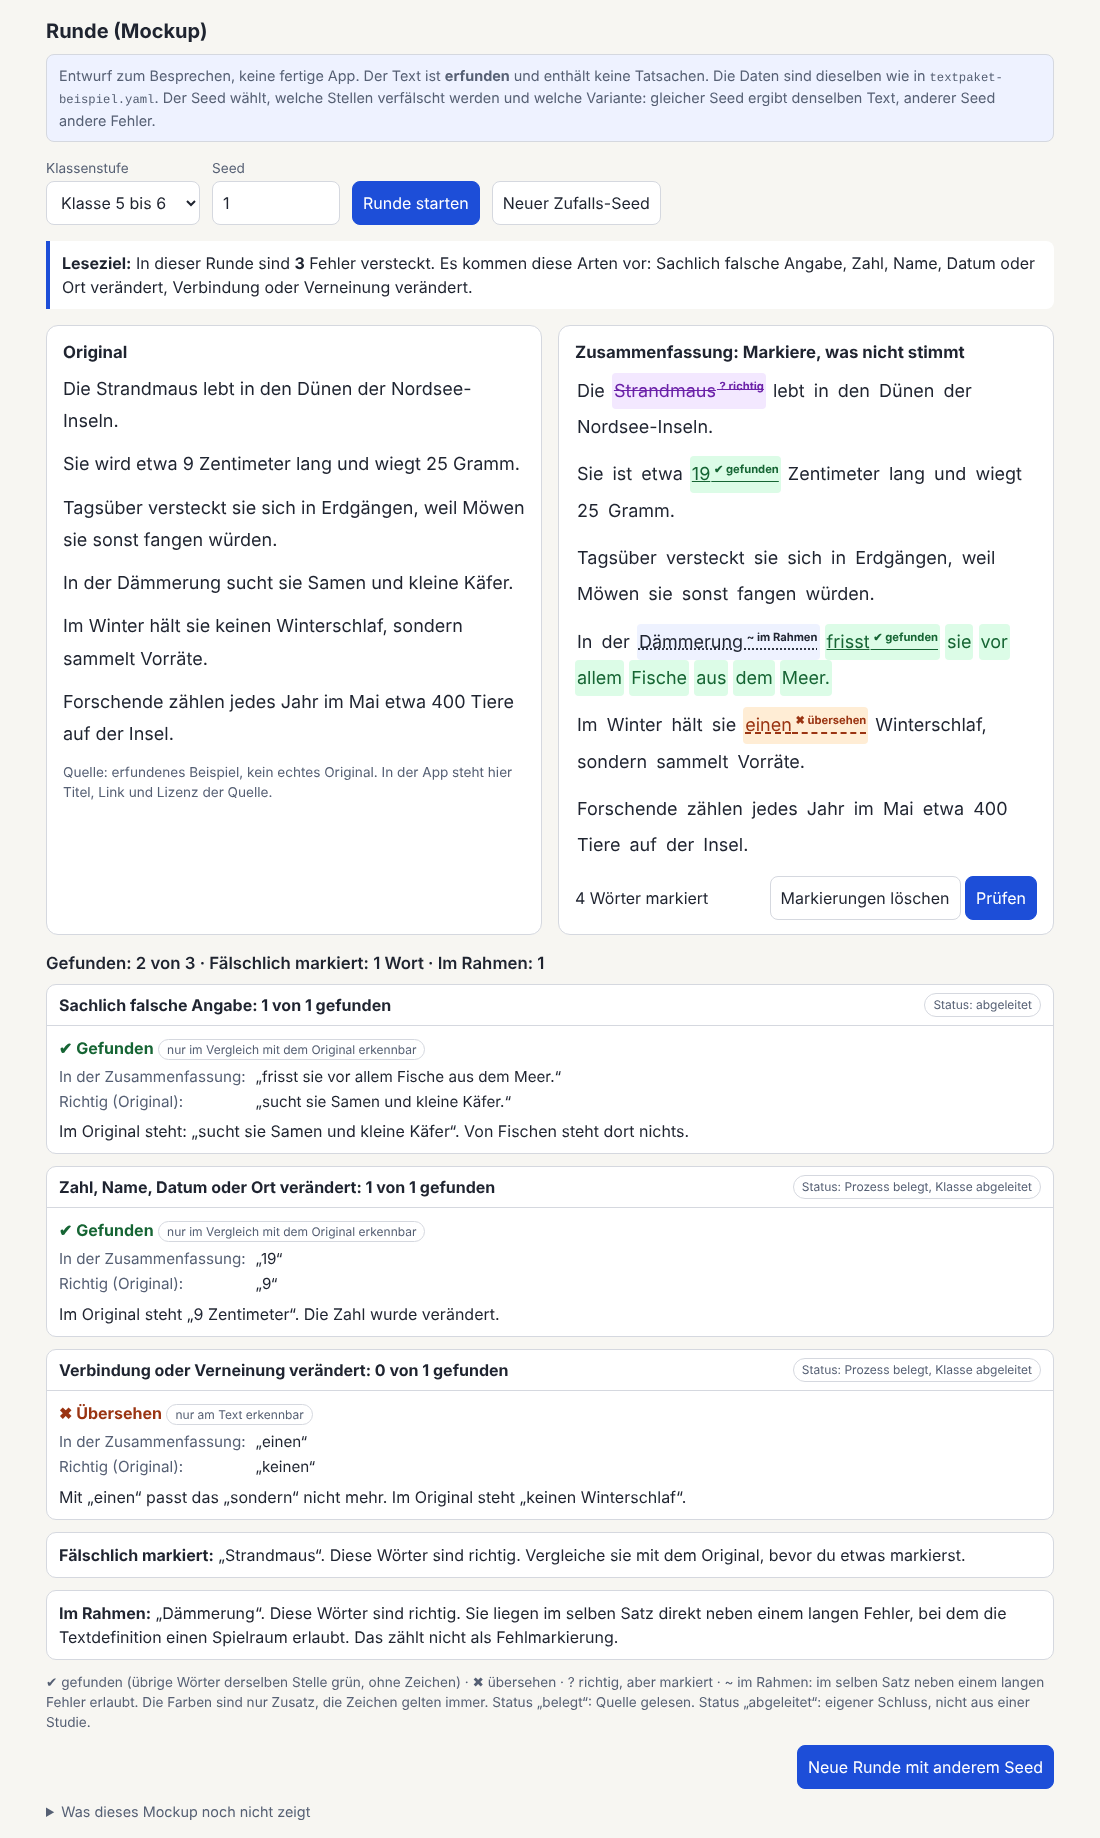
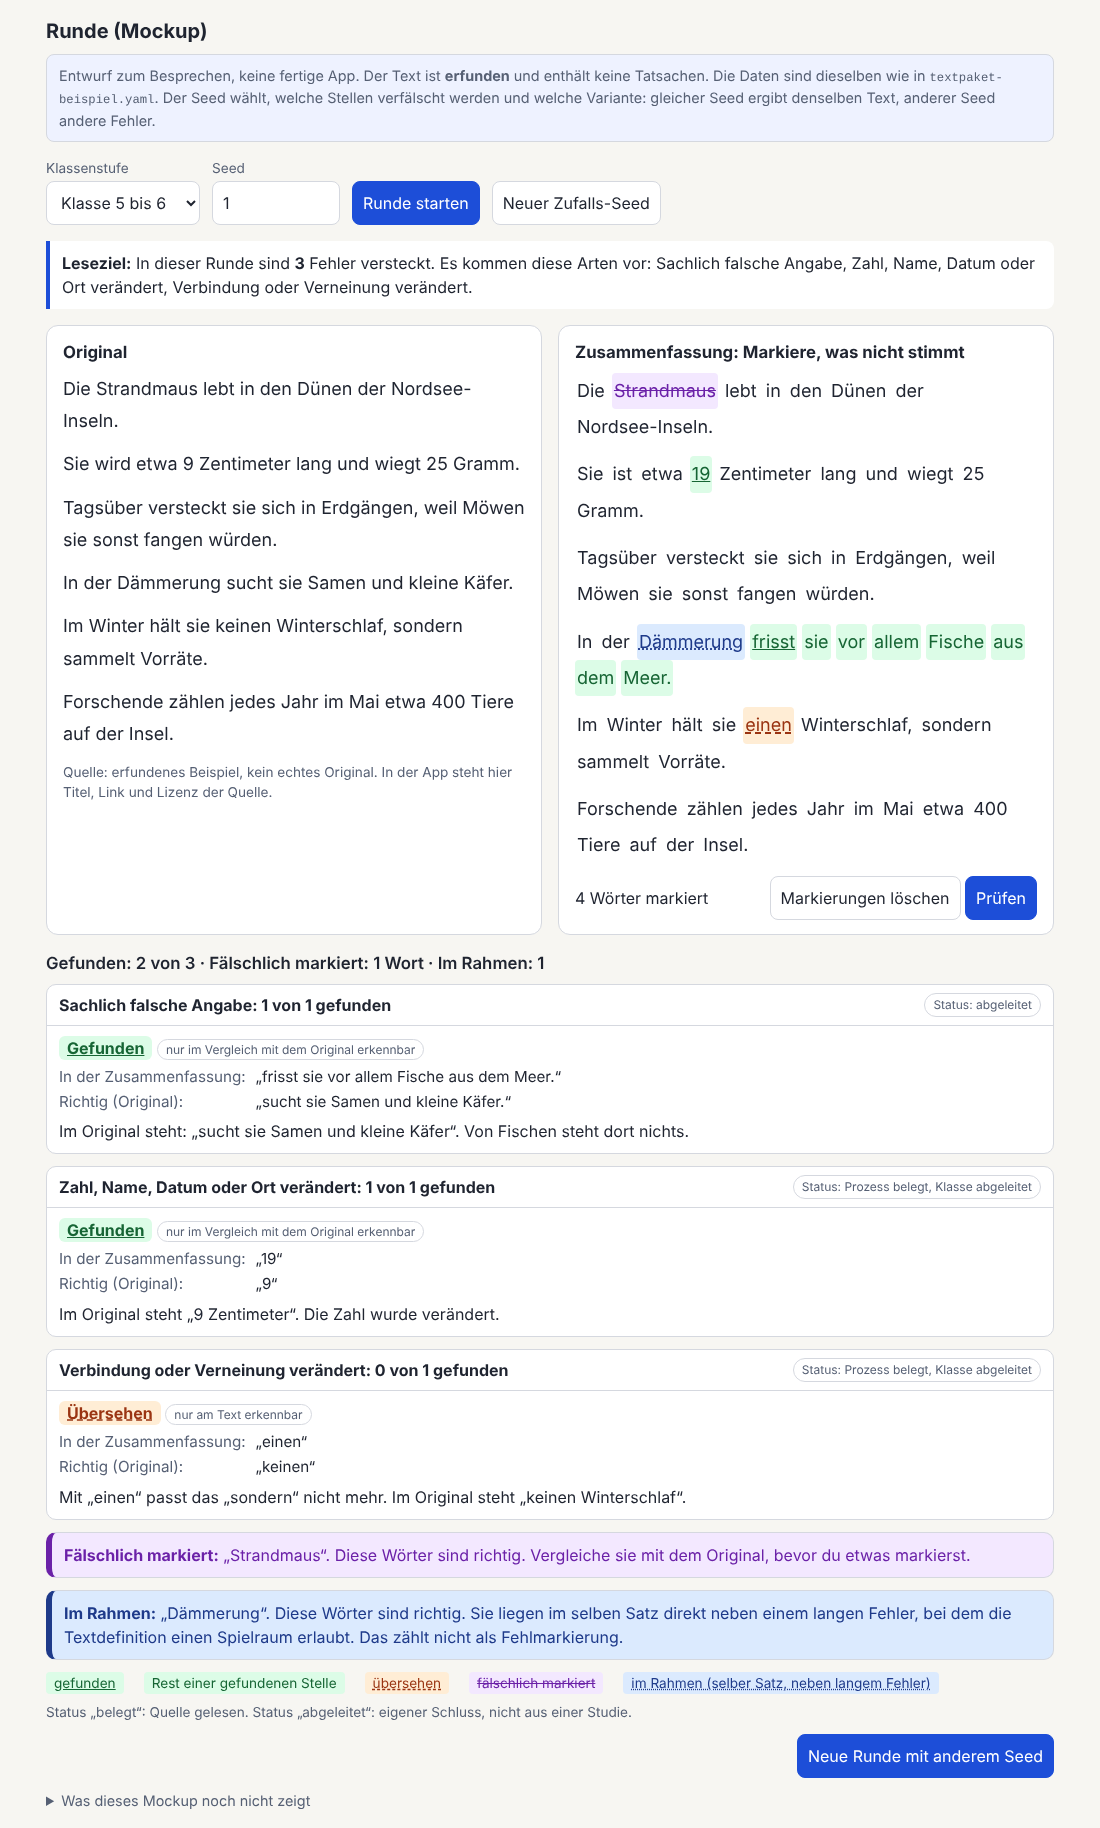
docs: Mockup ohne Hinweise im Text, Farben und Legende
Claude-Session: https://claude.ai/code/session_01WcN2j3MAuxfv3JFCJt81f7

diff --git a/.vibe/mockups/mockup-runde.html b/.vibe/mockups/mockup-runde.html
@@ -9,14 +9,14 @@
   --bg: #f7f6f2; --card: #ffffff; --ink: #1f2430; --muted: #566074; --line: #d5d8df;
   --accent: #1d4ed8; --mark: #fde68a; --mark-ink: #1f2430;
   --ok: #166534; --ok-bg: #dcfce7; --miss: #9a3412; --miss-bg: #ffedd5; --fa: #6b21a8; --fa-bg: #f3e8ff;
-  --note: #eef2ff;
+  --note: #eef2ff; --fr: #1e3a8a; --fr-bg: #dbeafe;
 }
 @media (prefers-color-scheme: dark) {
   :root:not([data-theme="light"]) {
     --bg: #14161b; --card: #1d2027; --ink: #e8eaf0; --muted: #a2abbd; --line: #343a47;
     --accent: #8ab4ff; --mark: #6b5b12; --mark-ink: #fff6d1;
     --ok: #86efac; --ok-bg: #12301e; --miss: #fdba74; --miss-bg: #3a2210; --fa: #d8b4fe; --fa-bg: #2b1a3d;
-    --note: #1c2340;
+    --note: #1c2340; --fr: #bfdbfe; --fr-bg: #1e2f5a;
   }
 }
 * { box-sizing: border-box; }
@@ -45,7 +45,7 @@ button.primary { background: var(--accent); color: #fff; border-color: var(--acc
 .tok.found { background: var(--ok-bg); color: var(--ok); text-decoration: underline; }
 .tok.part { background: var(--ok-bg); color: var(--ok); text-decoration: none; }
 .tok.missed { background: var(--miss-bg); color: var(--miss); text-decoration: underline dashed; }
-.tok.ok2 { background: var(--note); color: var(--ink); text-decoration: underline dotted; }
+.tok.ok2 { background: var(--fr-bg); color: var(--fr); text-decoration: underline dotted; }
 .tok.fa { background: var(--fa-bg); color: var(--fa); text-decoration: line-through; }
 .tag { font-size: .7rem; font-weight: 700; vertical-align: super; margin-left: 1px; }
 .bar { display: flex; flex-wrap: wrap; gap: 12px; align-items: center; justify-content: space-between; margin-top: 12px; }
@@ -57,9 +57,18 @@ button.primary { background: var(--accent); color: #fff; border-color: var(--acc
 .chip { font-size: .75rem; padding: 2px 8px; border-radius: 999px; border: 1px solid var(--line); color: var(--muted); }
 .item { padding: 10px 12px; border-top: 1px solid var(--line); }
 .item:first-of-type { border-top: 0; }
-.st { font-weight: 700; }
-.st.ok { color: var(--ok); }
-.st.miss { color: var(--miss); }
+.st { font-weight: 700; padding: 2px 8px; border-radius: 6px; }
+.st.ok { background: var(--ok-bg); color: var(--ok); text-decoration: underline; }
+.st.miss { background: var(--miss-bg); color: var(--miss); text-decoration: underline dashed; }
+.fa-box.fa { border-left: 6px solid var(--fa); background: var(--fa-bg); color: var(--fa); }
+.fa-box.fr { border-left: 6px solid var(--fr); background: var(--fr-bg); color: var(--fr); }
+.legend { display: flex; flex-wrap: wrap; gap: 8px 16px; align-items: center; }
+.sw { display: inline-block; padding: 1px 8px; border-radius: 4px; font-size: .85rem; margin-right: 4px; }
+.sw.found { background: var(--ok-bg); color: var(--ok); text-decoration: underline; }
+.sw.part { background: var(--ok-bg); color: var(--ok); }
+.sw.missed { background: var(--miss-bg); color: var(--miss); text-decoration: underline dashed; }
+.sw.fa { background: var(--fa-bg); color: var(--fa); text-decoration: line-through; }
+.sw.ok2 { background: var(--fr-bg); color: var(--fr); text-decoration: underline dotted; }
 .cmp { display: grid; grid-template-columns: auto 1fr; gap: 2px 10px; margin: 6px 0; font-size: .95rem; }
 .cmp dt { color: var(--muted); }
 .cmp dd { margin: 0; }
@@ -265,11 +274,11 @@ function check() {
     b.disabled = true;
     b.classList.remove('found', 'missed', 'fa');
     const old = b.querySelector('.tag'); if (old) old.remove();
-    if (isErr && m) { b.classList.add('found'); b.insertAdjacentHTML('beforeend', '<span class="tag"> ✔ gefunden</span>'); }
-    else if (isErr && !m && markedStelle(t.stelle)) { b.classList.add('part'); }
-    else if (isErr && !m) { b.classList.add('missed'); b.insertAdjacentHTML('beforeend', '<span class="tag"> ✖ übersehen</span>'); }
-    else if (m && zone.has(t.id)) { b.classList.add('ok2'); b.insertAdjacentHTML('beforeend', '<span class="tag"> ~ im Rahmen</span>'); }
-    else if (m) { b.classList.add('fa'); b.insertAdjacentHTML('beforeend', '<span class="tag"> ? richtig</span>'); }
+    if (isErr && m) { b.classList.add('found'); b.insertAdjacentHTML('beforeend', '<span class="sr"> (gefunden)</span>'); }
+    else if (isErr && !m && markedStelle(t.stelle)) { b.classList.add('part'); b.insertAdjacentHTML('beforeend', '<span class="sr"> (Teil des gefundenen Fehlers)</span>'); }
+    else if (isErr && !m) { b.classList.add('missed'); b.insertAdjacentHTML('beforeend', '<span class="sr"> (übersehen)</span>'); }
+    else if (m && zone.has(t.id)) { b.classList.add('ok2'); b.insertAdjacentHTML('beforeend', '<span class="sr"> (im Rahmen)</span>'); }
+    else if (m) { b.classList.add('fa'); b.insertAdjacentHTML('beforeend', '<span class="sr"> (fälschlich markiert)</span>'); }
   });
 
   // Rückmeldung nach Fehlerklasse
@@ -291,7 +300,7 @@ function check() {
       const e = state.errors[id];
       const s = D.paket.stellen[id];
       const hit = markedStelle(id);
-      html += `<div class="item"><span class="st ${hit ? 'ok' : 'miss'}">${hit ? '✔ Gefunden' : '✖ Übersehen'}</span> `
+      html += `<div class="item"><span class="st ${hit ? 'ok' : 'miss'}">${hit ? 'Gefunden' : 'Übersehen'}</span> `
         + `<span class="chip">${D.basis[e.basis]}</span>`
         + `<dl class="cmp"><dt>In der Zusammenfassung:</dt><dd>„${e.text.trim()}“</dd>`
         + `<dt>Richtig (Original):</dt><dd>${s.richtig ? '„' + s.richtig + '“' : 'Dieser Satz steht nicht im Original.'}</dd></dl>`
@@ -300,17 +309,23 @@ function check() {
     html += `</section>`;
   }
   if (falseTokens.length) {
-    html += `<div class="fa-box"><strong>Fälschlich markiert:</strong> `
+    html += `<div class="fa-box fa"><strong>Fälschlich markiert:</strong> `
       + falseTokens.map(t => `„${t.text}“`).join(', ')
       + `. Diese Wörter sind richtig. Vergleiche sie mit dem Original, bevor du etwas markierst.</div>`;
   }
   if (okTokens.length) {
-    html += `<div class="fa-box"><strong>Im Rahmen:</strong> `
+    html += `<div class="fa-box fr"><strong>Im Rahmen:</strong> `
       + okTokens.map(t => `„${t.text}“`).join(', ')
       + `. Diese Wörter sind richtig. Sie liegen im selben Satz direkt neben einem langen Fehler, bei dem die Textdefinition einen Spielraum erlaubt. Das zählt nicht als Fehlmarkierung.</div>`;
   }
-  html += `<div class="legend">✔ gefunden (übrige Wörter derselben Stelle grün, ohne Zeichen) · ✖ übersehen · ? richtig, aber markiert · ~ im Rahmen: im selben Satz neben einem langen Fehler erlaubt. Die Farben sind nur Zusatz, die Zeichen gelten immer. `
-    + `Status „belegt“: Quelle gelesen. Status „abgeleitet“: eigener Schluss, nicht aus einer Studie.</div>`
+  html += `<div class="legend" role="group" aria-label="Legende">`
+    + `<span><span class="sw found">gefunden</span></span>`
+    + `<span><span class="sw part">Rest einer gefundenen Stelle</span></span>`
+    + `<span><span class="sw missed">übersehen</span></span>`
+    + `<span><span class="sw fa">fälschlich markiert</span></span>`
+    + `<span><span class="sw ok2">im Rahmen (selber Satz, neben langem Fehler)</span></span>`
+    + `</div>`
+    + `<div class="legend">Status „belegt“: Quelle gelesen. Status „abgeleitet“: eigener Schluss, nicht aus einer Studie.</div>`
     + `<div class="bar"><span></span><button class="ctl primary" id="again" type="button">Neue Runde mit anderem Seed</button></div>`;
   $('result').innerHTML = html;
   $('again').addEventListener('click', () => { $('seed').value = (state.seed + 1); startRound(); });
